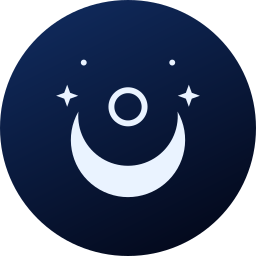
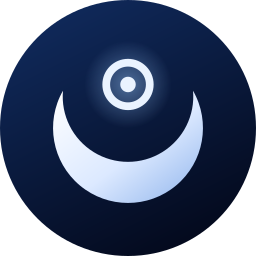
Give the crescent crown a glowing full moon and moonlight shine
The sparkles made the mark read as a smiling face, so they are gone; the full moon gets a glowing core, and on dark
backgrounds the crescent fades from white to pale blue.

diff --git a/tools/make_art.py b/tools/make_art.py
@@ -21,8 +21,12 @@ NAVY_TOP = "#102A5C"
 NAVY_BOTTOM = "#03081A"
 PAPER = "#F4F7FB"
 
-# horizontal centre of the mark's drawing inside its 100x100 box is 50; vertical centre of the ink is ~53.5
-MARK_INK_CENTER_Y = 53.5
+# moonlight shine for dark backgrounds: the crescent fades from white to pale blue, the full moon glows
+SHINE = ('<defs><linearGradient id="shine" x1="0" y1="0" x2="1" y2="1">'
+         '<stop offset="0" stop-color="#FFFFFF"/><stop offset="0.55" stop-color="#DCE9FF"/><stop offset="1" stop-color="#8FB4EC"/>'
+         '</linearGradient><radialGradient id="glow">'
+         '<stop offset="0" stop-color="#9CCBFF" stop-opacity="0.45"/><stop offset="1" stop-color="#9CCBFF" stop-opacity="0"/>'
+         '</radialGradient></defs><circle cx="50" cy="42" r="18" fill="url(#glow)"/>')
 
 
 def inner(svg_file):
@@ -37,9 +41,12 @@ WORD_BOX, WORD = inner("selene-wordmark.svg")
 WORD_W, WORD_H = (float(v) for v in WORD_BOX.split()[2:])
 
 
-def mark(x, y, size, color, opacity=1.0):
-    return (f'<svg x="{x}" y="{y}" width="{size}" height="{size}" viewBox="{MARK_BOX}" '
-            f'style="color:{color}" opacity="{opacity}">{MARK}</svg>')
+def mark(cx, cy, size, color, opacity=1.0, shine=False):
+    body = MARK
+    if shine:
+        body = SHINE + body.replace('id="crescent" fill="currentColor"', 'id="crescent" fill="url(#shine)"')
+    return (f'<svg x="{cx - size / 2}" y="{cy - size / 2}" width="{size}" height="{size}" viewBox="{MARK_BOX}" '
+            f'style="color:{color}" opacity="{opacity}">{body}</svg>')
 
 
 def wordmark(cx, y, width, color):
@@ -67,31 +74,28 @@ def render(svg, out_png, width=None):
 
 
 def mark_alone(size=256):
-    s = size * 0.9
-    return doc(size, size, mark((size - s) / 2, size / 2 - s * MARK_INK_CENTER_Y / 100, s, MOONLIGHT))
+    return doc(size, size, mark(size / 2, size / 2, size * 0.92, MOONLIGHT, shine=True))
 
 
 def mark_on_disc(size=256):
     defs = (f'<linearGradient id="bg" x1="0.25" y1="0" x2="0.75" y2="1">'
             f'<stop offset="0" stop-color="{NAVY_TOP}"/><stop offset="1" stop-color="{NAVY_BOTTOM}"/></linearGradient>')
-    s = size * 0.72
     body = (f'<circle cx="{size / 2}" cy="{size / 2}" r="{size / 2}" fill="url(#bg)"/>'
-            + mark((size - s) / 2, size / 2 - s * MARK_INK_CENTER_Y / 100, s, MOONLIGHT))
+            + mark(size / 2, size / 2, size * 0.68, MOONLIGHT, shine=True))
     return doc(size, size, body, defs)
 
 
 def cover():
     defs = (f'<linearGradient id="bg" x1="0" y1="0" x2="0" y2="1">'
             f'<stop offset="0" stop-color="{NAVY_TOP}"/><stop offset="1" stop-color="{NAVY_BOTTOM}"/></linearGradient>')
-    body = '<rect width="600" height="900" fill="url(#bg)"/>' + mark(150, 450 - 300 * MARK_INK_CENTER_Y / 100, 300, MOONLIGHT, 0.35)
+    body = '<rect width="600" height="900" fill="url(#bg)"/>' + mark(300, 450, 260, MOONLIGHT, 0.35, shine=True)
     return doc(600, 900, body, defs)
 
 
-def lockup(background, ink):
+def lockup(background, ink, shine):
     w, h = 1200, 800
-    s = 380
     body = (f'<rect width="{w}" height="{h}" fill="{background}"/>'
-            + mark((w - s) / 2, 90, s, ink)
+            + mark(w / 2, 300, 380, ink, shine=shine)
             + wordmark(w / 2, 560, 640, ink))
     return doc(w, h, body)
 
@@ -102,8 +106,8 @@ render(mark_on_disc(), IMAGES / "applogo_full.png", width=512)
 render(mark_on_disc(), ROOT / "SeleneCore" / "icon.png")
 render(cover(), IMAGES / "custom_cover_background.png")
 
-for name, background, ink in (("dark", NAVY, MOONLIGHT), ("light", PAPER, NAVY)):
-    svg = lockup(background, ink)
+for name, background, ink, shine in (("dark", NAVY, MOONLIGHT, True), ("light", PAPER, NAVY, False)):
+    svg = lockup(background, ink, shine)
     (LOGO_DIR / f"selene-logo-{name}.svg").parent.mkdir(parents=True, exist_ok=True)
     (LOGO_DIR / f"selene-logo-{name}.svg").write_text(svg, encoding="utf-8")
     print("wrote", (LOGO_DIR / f"selene-logo-{name}.svg").relative_to(ROOT))
